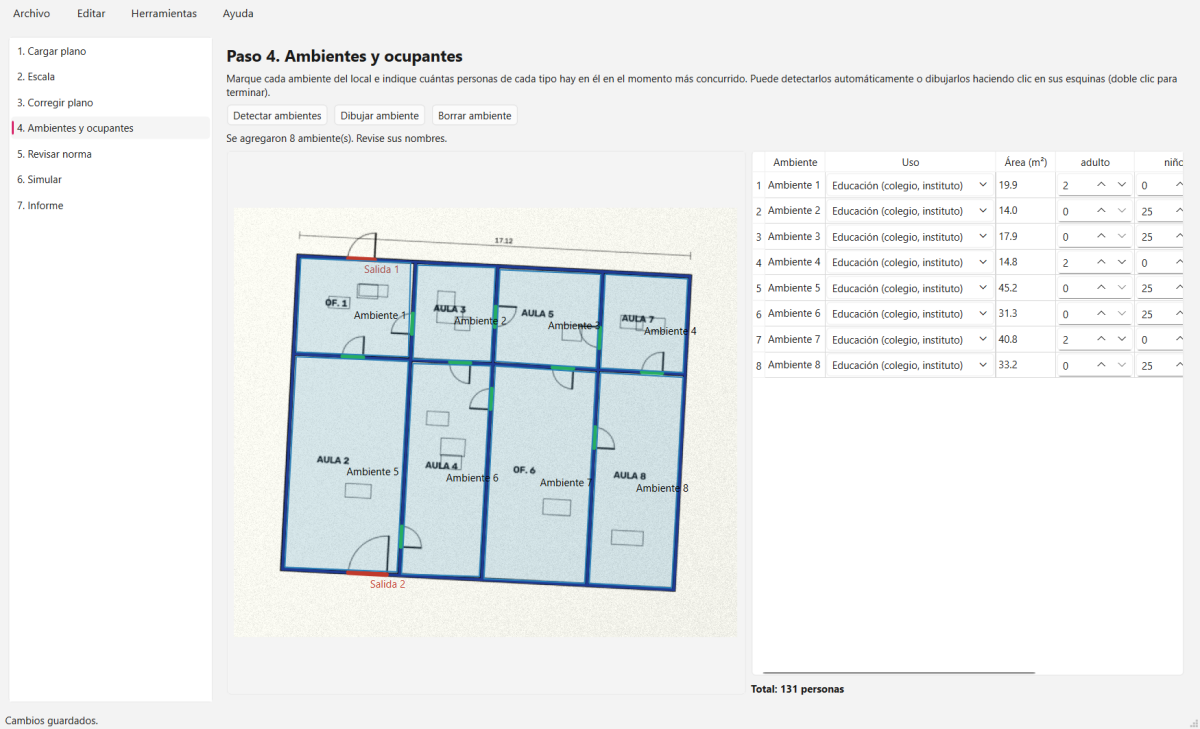
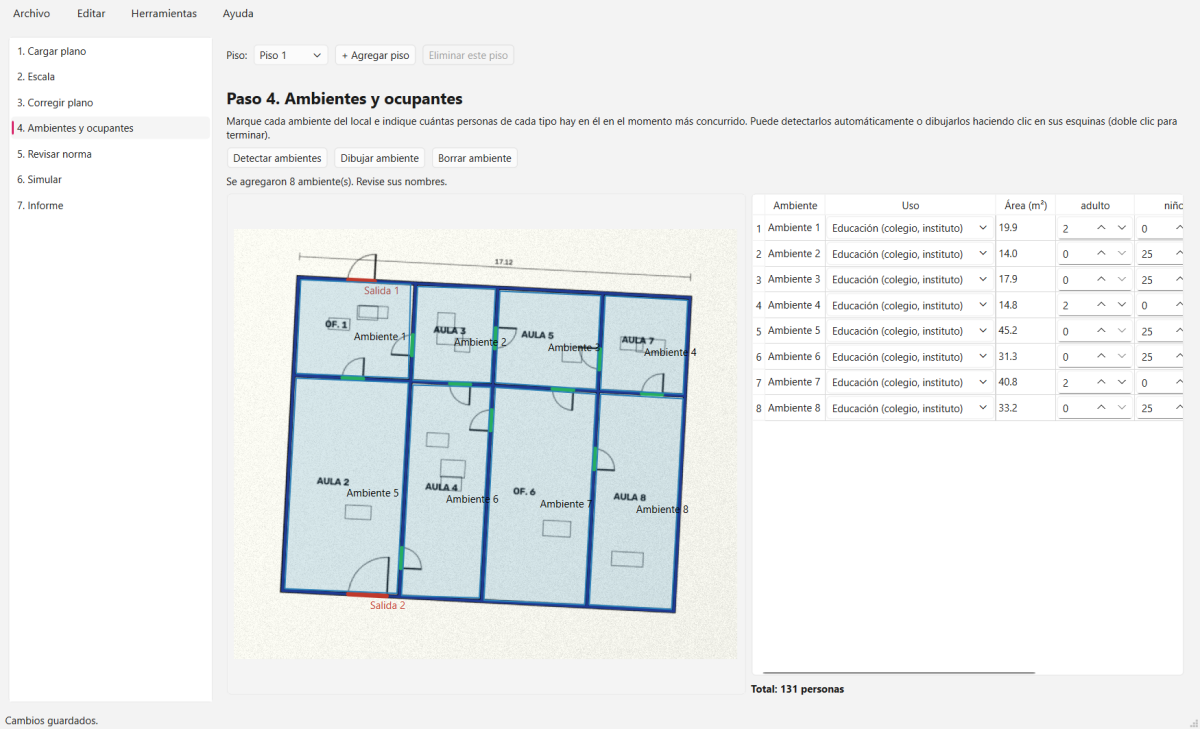
docs: varios pisos en el manual, CHANGELOG, ADR 031-032 y parámetros de escalera

diff --git a/docs/decisiones.md b/docs/decisiones.md
@@ -366,3 +366,37 @@ Formato corto: contexto, decisión, alternativas, consecuencias.
 - **Decisión:** `--self-test` recorre el flujo completo en una carpeta temporal, sin tocar los
   datos del usuario y sin red. El script de construcción y el CI la ejecutan sobre el `.exe`
   congelado.
+
+## ADR-031: varios pisos con un simulador por piso y escaleras como cola
+
+- **Fecha:** 2026-11-10 · **Estado:** aceptada (parámetros de escalera provisionales)
+- **Decisión:**
+  - Un `Simulation` y un campo de distancia por piso (CLAUDE.md §5.2). Todos comparten los índices
+    de agente: en cada piso, quien no está en él figura como inactivo. El motor de un piso no cambia
+    y sigue dando resultados idénticos a los de antes.
+  - En los pisos altos, las escaleras son objetivos.
+  - Quien llega a una escalera entra a una cola con capacidad `flujo específico × ancho`, baja
+    durante `recorrido / (velocidad · factor)` y aparece en la escalera emparejada del piso de
+    abajo. Si esa escalera también baja, sigue bajando.
+  - Las escaleras se emparejan por nombre, o con la única escalera del piso de abajo. El editor las
+    nombra solas («Escalera A», «B»…).
+- **Alternativas:**
+  - Grilla 3D con celdas de escalera inclinadas: modela mejor el tramo, pero es mucho más compleja.
+  - Escalera sin capacidad: subestima los tiempos en edificios llenos.
+- **Limitaciones:**
+  - No se modelan los conflictos entre quienes bajan y quienes entran a la escalera desde un piso
+    intermedio. La cola es una por escalera y por piso.
+  - No hay evacuación hacia arriba (azoteas).
+  - Las imágenes de cada piso no necesitan estar alineadas, porque las coordenadas son propias de
+    cada piso.
+
+## ADR-032: normas en edificios de varios pisos
+
+- **Fecha:** 2026-11-10 · **Estado:** aceptada (pendiente de verificación normativa)
+- **Decisión:**
+  - El ancho total de las salidas del piso más bajo se compara con los ocupantes de **todo el
+    edificio**.
+  - Los pisos altos no se evalúan por salidas, porque se evacúan por escaleras.
+  - Las observaciones llevan el prefijo «Piso N:».
+- **Pendiente:** agregar a `medios_evacuacion.yaml` el ancho mínimo y por persona de las
+  escaleras, con el texto oficial del RNE A.130 (`verificado: false` hasta confirmarlo).

diff --git a/docs/manual_usuario.md b/docs/manual_usuario.md
@@ -193,6 +193,30 @@ incluye:
 
 ---
 
+## Edificios de varios pisos
+
+![Varios pisos](img/10_varios_pisos.png)
+
+RutaSegura simula edificios de hasta 4 pisos.
+
+1. Con el proyecto abierto, use la barra **Piso** (arriba) y pulse **+ Agregar piso**.
+2. Para cada piso, haga los pasos 1 a 4: cargue su plano, defina su escala, corrija el plano y
+   marque ambientes y ocupantes. El selector **Piso** indica en qué piso está trabajando.
+3. **Escaleras.** Dibújelas en el paso 3, en **todos los pisos que unen**, en el mismo lugar del
+   edificio. Se nombran solas («Escalera A», «Escalera B»…):
+   - si las dibuja en el mismo orden en cada piso, quedan emparejadas;
+   - si un piso tiene una sola escalera, se empareja con ella automáticamente.
+4. En el paso 6 se simula **todo el edificio a la vez**.
+   - Las personas de los pisos altos caminan hasta la escalera, bajan y salen por las salidas del
+     piso 1.
+   - Las escaleras tienen una capacidad: si llega mucha gente, se forma fila.
+   - En el visor, el selector **Piso** muestra cada piso con su mapa de calor.
+
+**Eliminar un piso:** solo se puede eliminar el piso más alto, nunca el piso 1. Si no lo tiene
+abierto, cámbielo primero en el selector **Piso**.
+
+---
+
 ## Calibrar con un simulacro real
 
 ![Calibrar](img/08_calibrar.png)
@@ -219,6 +243,11 @@ enfocados. Si la foto está torcida, enderécela en el paso 1.
 **Dice que las personas de un ambiente «no tienen una salida alcanzable».**
 Revise que ese ambiente tenga una puerta, que no haya un muro cerrando el paso y que el local
 tenga al menos una salida confirmada.
+
+**Dice que una escalera «no tiene una escalera correspondiente» en otro piso.**
+Dibuje la escalera también en el piso de abajo, en el mismo lugar. Si ese piso tiene varias
+escaleras, dibújelas en el mismo orden que en el piso de arriba para que tengan los mismos
+nombres.
 
 **Dice que hay salidas propuestas sin confirmar.**
 Vuelva al paso 3, seleccione las salidas con «?» y pulse **Confirmar salida**, o bórrelas.

diff --git a/docs/CHANGELOG.md b/docs/CHANGELOG.md
@@ -26,9 +26,27 @@ Formato basado en [Keep a Changelog](https://keepachangelog.com/es-ES/1.1.0/).
 - **Manual de usuario** en `docs/manual_usuario.md`, con 10 capturas generadas por
   `scripts/capture_screenshots.py`.
 
-#### Pendiente
-- **Multipiso (RF12, «Could»):** no se implementó. Es lo primero que se recorta según la
-  especificación y queda para decidir.
+- **Varios pisos (RF12),** hasta 4:
+  - **Motor** `engines/simulation/multifloor.py`:
+    - un campo de distancia y un `Simulation` por piso, con índices de agente compartidos;
+    - en los pisos altos, las escaleras son objetivos;
+    - al bajar hay una cola con capacidad (flujo específico × ancho) y un tiempo de bajada con
+      velocidad reducida;
+    - la persona aparece en la escalera emparejada del piso de abajo.
+  - **Escaleras:** se emparejan por nombre (o con la única escalera del piso de abajo) y se nombran
+    solas («Escalera A», «Escalera B»…).
+  - **Interfaz:**
+    - barra «Piso» para cambiar, agregar y eliminar pisos;
+    - los pasos 1 a 5 trabajan sobre el piso elegido;
+    - la simulación, el comparador y el visor muestran el edificio completo, con un selector de
+      piso.
+  - **Normas del edificio:** las salidas del piso 1 deben dar paso a todas las personas del
+    edificio, y las observaciones indican el piso.
+  - **Informe:** un mapa de calor por piso, y los cuellos de botella indican su piso.
+  - **Archivo de corrida:** el `.npz` pasa a la versión 2, con el piso de cada persona y un mapa
+    por piso. Los archivos de la versión 1 se siguen leyendo.
+- **Parámetros provisionales nuevos:** recorrido de escalera por piso, factor de velocidad al
+  bajar y flujo específico de la escalera.
 
 ### Hito 5: escenarios y calibración (2026-11-10)
 

diff --git a/docs/parametros_simulacion.md b/docs/parametros_simulacion.md
@@ -34,6 +34,18 @@ Los valores están definidos en `rutasegura/engines/simulation/params.py` (`Simu
 - La densidad ρ se calcula con **todas las personas presentes** (también las que esperan), contando
   las personas en una ventana de 3 × 3 celdas (1.44 m²).
 
+## Escaleras (varios pisos)
+
+| Parámetro | Valor | Estado | Comentario |
+|---|---|---|---|
+| Recorrido por piso | 8 m | PROVISIONAL | Dos tramos y un descanso. Depende del edificio; medir si es posible. |
+| Factor de velocidad al bajar | 0.5 | PROVISIONAL | Respecto de la velocidad horizontal de cada perfil. Contrastar con la literatura de evacuación en escaleras. |
+| Flujo específico | 1.1 personas/(s·m) | PROVISIONAL | Orden de magnitud del SFPE Handbook para escaleras. Verificar. |
+
+- **Cola de entrada:** se pasa una persona cada 1 / (flujo × ancho) segundos. El ancho es el lado
+  corto del rectángulo que contiene a la escalera dibujada.
+- **Tiempo de bajada:** recorrido / (velocidad máxima × factor).
+
 ## Cuellos de botella y mapa de calor
 
 | Parámetro | Valor | Estado | Comentario |

diff --git a/README.md b/README.md
@@ -7,7 +7,7 @@ oficina, tienda) en un modelo del edificio, verifica aforo y anchos mínimos seg
 > Este informe es de apoyo y no reemplaza la Inspección Técnica de Seguridad en Edificaciones
 > (ITSE) ni el estudio de un profesional colegiado.
 
-**Estado:** Hito 6 (entrega) terminado. Multipiso (RF12) pendiente de decisión. Ver [docs/CHANGELOG.md](docs/CHANGELOG.md).
+**Estado:** Hito 6 (entrega y varios pisos) terminado: todos los hitos completos. Ver [docs/CHANGELOG.md](docs/CHANGELOG.md).
 
 ## Requisitos
 
